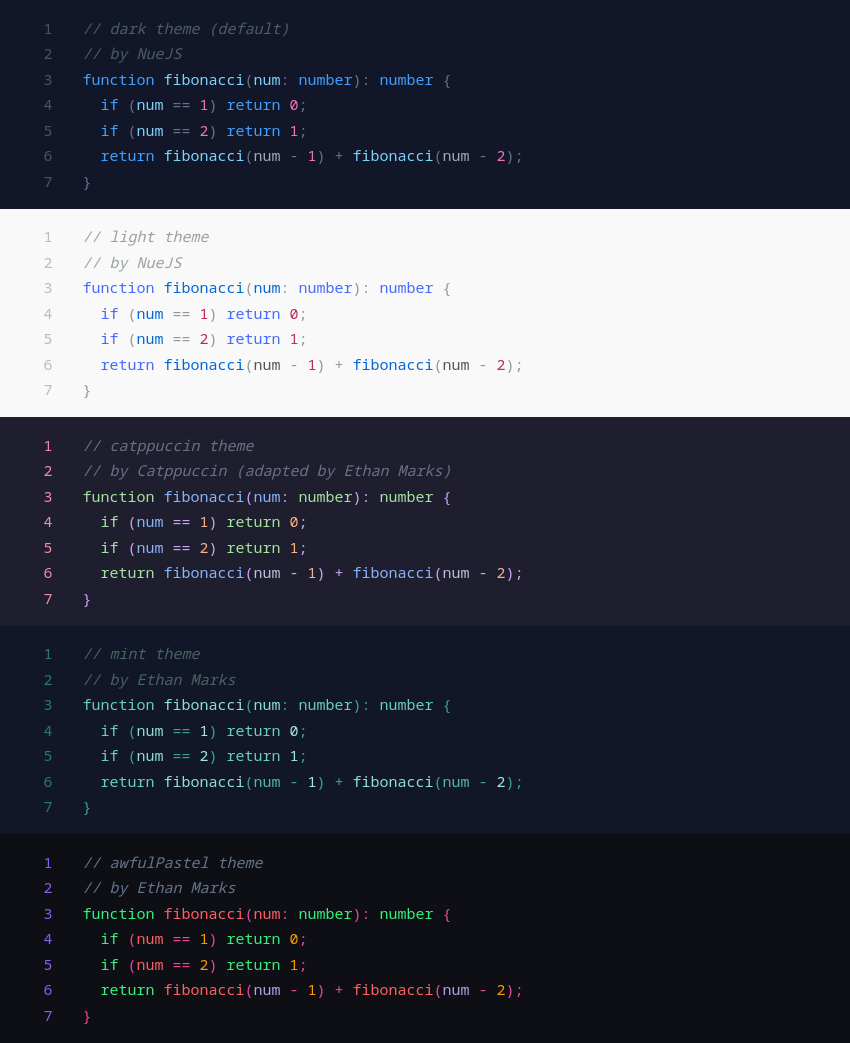
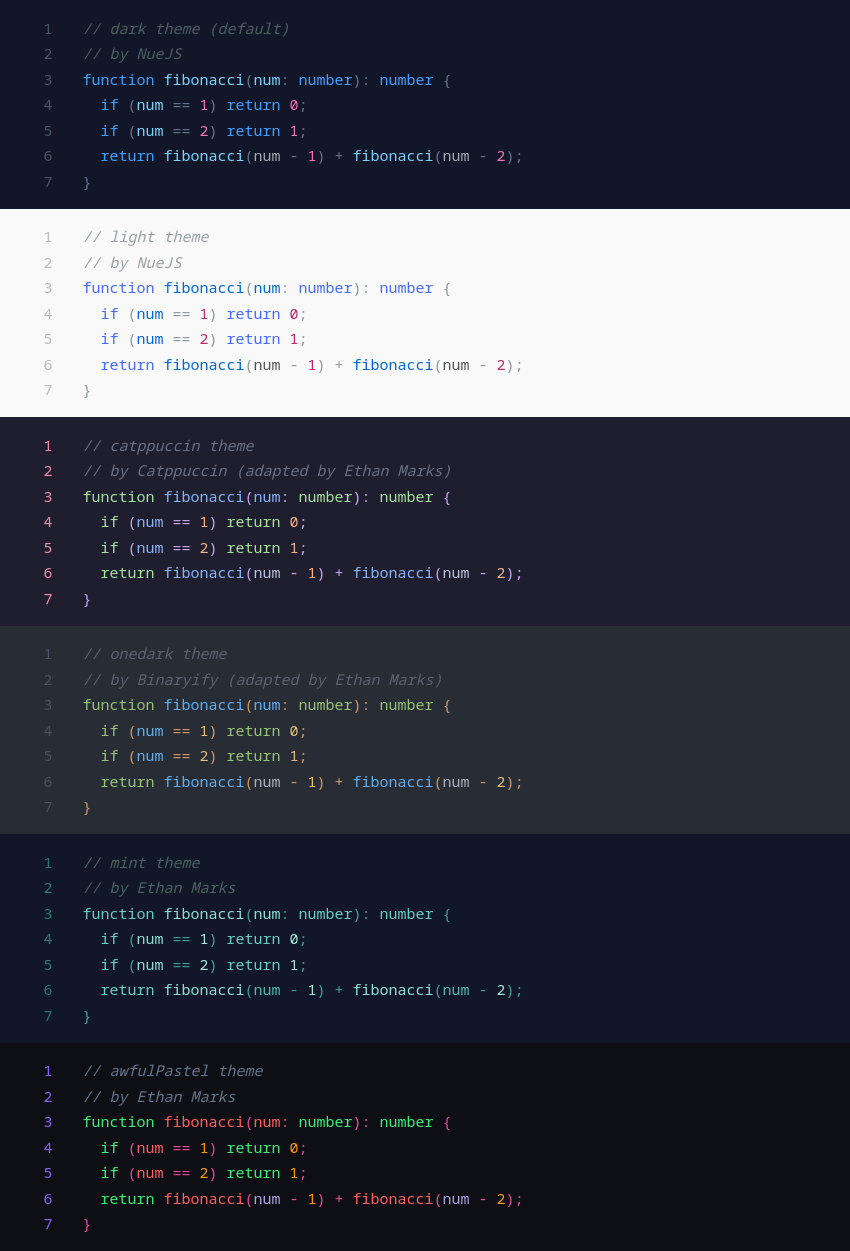
add onedark theme

diff --git a/mod.ts b/mod.ts
@@ -46,8 +46,12 @@ export interface Options {
    * https://nuejs.org/glow-demo/dark.css.
    * * 'light': A light theme sourced from
    * https://github.com/nuejs/nue/blob/master/packages/nueglow/css/light.css.
-   * * 'catppuccin': A dark theme made by me based on
+   * * 'catppuccin': A dark theme adapted by me based on
    * https://catppuccin.com/palette/.
+   * * 'onedark': A dark theme adapted by me based on
+   * https://github.com/Binaryify/OneDark-Pro/.
+   * * 'mint': A monochromatic dark theme made by me.
+   * * 'awfulPastel': a dark theme made (poorly) by me.
    * * 'none': No theme.
    */
   theme?: "dark" | "light" | "catppuccin" | "none";
@@ -272,6 +276,25 @@ export const THEMES: Theme[] = [
 }`,
   },
   {
+    /** Based on https://github.com/Binaryify/OneDark-Pro */
+    name: "onedark",
+    attribution: "Binaryify (adapted by Ethan Marks)",
+    css: `[glow] {
+  --glow-bg-color: #282c34;
+  --glow-font-color: #abb2bf;
+  --glow-primary-color: #61afef;
+  --glow-secondary-color: #e5c07b;
+  --glow-accent-color: #98c379;
+  --glow-special-color: #c678dd;
+  --glow-error-color: #f44747;
+  --glow-base-color: #abb2bf;
+  --glow-char-color: #d19a66;
+  --glow-comment-color: #5c6370;
+  --glow-counter-color: #4b5263;
+  --glow-selected-color: #3e44517f;
+}`,
+  },
+  {
     name: "mint",
     attribution: "Ethan Marks",
     css: `[glow] {
@@ -399,7 +422,7 @@ export default function (opt?: Options): Plugin {
             console.warn(`[nueglow] Error in ${page.sourcePath}`, error);
           }
         });
-        
+
         if (cssMode === "inline" && cssText) {
           // Put cssText in a <style> block in the <head> of every page that
           // uses glow.

diff --git a/README.md b/README.md
@@ -86,8 +86,12 @@ const opt: Options = {
    * https://nuejs.org/glow-demo/dark.css.
    * * 'light': A light theme sourced from
    * https://github.com/nuejs/nue/blob/master/packages/nueglow/css/light.css.
-   * * 'catppuccin': A dark theme made by me based on
+   * * 'catppuccin': A dark theme adapted by me based on
    * https://catppuccin.com/palette/.
+   * * 'onedark': A dark theme adapted by me based on
+   * https://github.com/Binaryify/OneDark-Pro/.
+   * * 'mint': A monochromatic dark theme made by me.
+   * * 'awfulPastel': a dark theme made (poorly) by me.
    * * 'none': No theme.
    */
   theme: "dark",
@@ -127,7 +131,7 @@ Nueglow uses a classless design system which makes it extremely easy to style.
 `lume_nueglow` comes with a few themes by default, which you can select via the
 `theme` option.
 
-![Screenshot of five of the same Javascript fibonacci function, each highlighted with a different theme: dark, light, catppuccin, mint, and awfulPastel](./.github/themes.png)
+![Screenshot of five of the same Javascript fibonacci function, each highlighted with a different theme: dark, light, catppuccin, onedark, mint, and awfulPastel](./.github/themes.png)
 
 ### Custom Themes
 
@@ -175,12 +179,12 @@ encountered it because I was trying to add Nueglow to one of my Lume sites and
 was checking to see if any plugins already existed.
 
 However, because `lume_glow`
-[used hardcoded `githubusercontent` links](https://github.com/ArnavK-09/lume_glow/blob/main/plugin.ts#L27:L31)
+[uses hardcoded `githubusercontent` links](https://github.com/ArnavK-09/lume_glow/blob/main/plugin.ts#L27:L31)
 that have since stopped working, it injects every page with
 `<style>404: Not Foundpre { overflow-x: auto }</style>` and not the actual
 styles. The hardcoded links can't be configured in any way, nor can you even
 disable the `<style>` injection. I considered submitting a PR, but the plugin
-didn't seem to be actively maintained.
+doesn't seem to be actively maintained.
 
 Instead, I decided to make my own plugin, borrowing the basic structure of
 ArnavK-09's plugin but expanding it significantly. I took the opportunity to
@@ -200,8 +204,14 @@ snippets from the nueglow documentation.
 
 ### Catppuccin
 
-The included `catppuccin` theme was made by me, but I used the
+The included `catppuccin` theme was adapted by me, but I used the
 [Catppuccin palette](https://catppuccin.com/palette/) as reference.
+
+### OneDark
+
+The included `onedark` theme was adapted by me, but I used the
+[OneDark-Pro VSCode theme](https://github.com/Binaryify/OneDark-Pro/) made by
+Binaryify as reference.
 
 ## License
 
